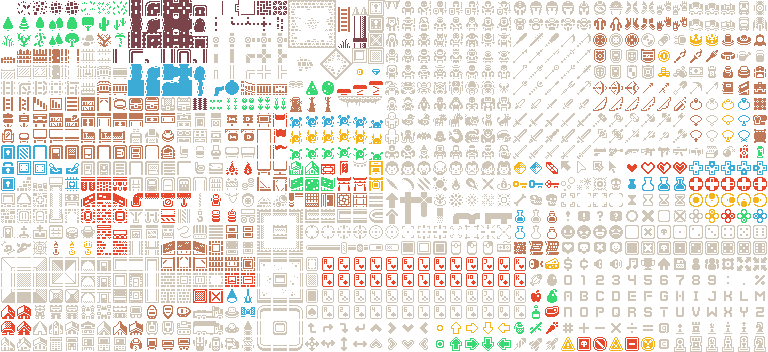
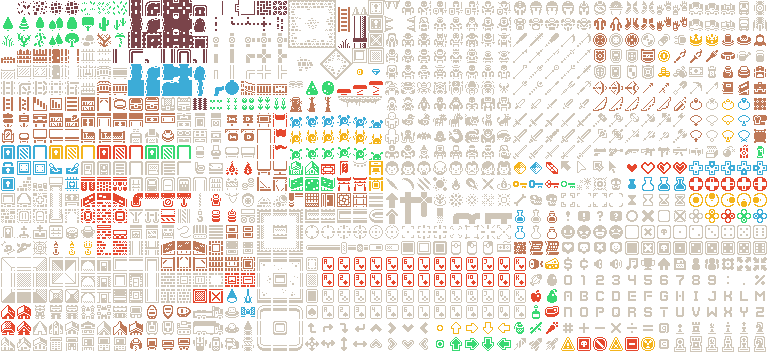
feat: add layers

Changed region(s): [[0.0625, 0.4062, 0.25, 0.4688], [0.5, 0.0312, 0.5625, 0.0938], [0.7188, 0.5, 0.75, 0.5312]]

diff --git a/src/scenes/game.ts b/src/scenes/game.ts
@@ -20,6 +20,8 @@ export class GameScene extends Phaser.Scene {
   rotating: boolean;
   direction: 0 | 1 | 2 | 3;
   isFlipped: boolean;
+  bgLayer: Phaser.Tilemaps.StaticTilemapLayer;
+  spikesLayer: Phaser.Tilemaps.StaticTilemapLayer;
   constructor() {
     super(sceneConfig);
   }
@@ -56,7 +58,10 @@ export class GameScene extends Phaser.Scene {
      */     
     this.map = this.make.tilemap({ key: 'map' });
     this.tiles = this.map.addTilesetImage('tiles');
+    this.bgLayer = this.map.createStaticLayer('Background', this.tiles)
     this.groundLayer = this.map.createStaticLayer('Ground', this.tiles)
+    this.spikesLayer = this.map.createStaticLayer('Spikes', this.tiles)
+    this.actionsLayer = this.map.createStaticLayer('Actions', this.tiles)
     
     /**    
      * Set the ground layer to be have any tiles with index 1 or 0 not be colidable.
@@ -89,10 +94,19 @@ export class GameScene extends Phaser.Scene {
     this.physics.add.collider(this.player, this.groundLayer, (player, layer) => {
       if (!this.rotating) {
         if (this.cursors.left.isDown && !this.cursors.right.isDown) {
-          this.moveCounterClockwise();
+          if (!this.isFlipped) {
+            this.moveCounterClockwise();
+          } else {
+            this.moveClockwise();
+          }
+          
         } else {
           if (this.cursors.right.isDown && !this.cursors.left.isDown) {
-            this.moveClockwise();
+            if (this.isFlipped) {
+              this.moveCounterClockwise();
+            } else {
+              this.moveClockwise();
+            }
           } else {
             this.stopMoving()
           }
@@ -120,6 +134,7 @@ export class GameScene extends Phaser.Scene {
      */     
     this.cameras.main.setBounds(0, 0, 1920, 1440);
     this.cameras.main.startFollow(this.player);
+    this.cameras.main.setZoom(2);
   }
   
   public update() {    
@@ -321,7 +336,7 @@ export class GameScene extends Phaser.Scene {
         this.player.body.gravity.x *= -1;
         this.player.body.gravity.y = 0
       }
-      this.player.flipY = this.isFlipped
+      this.player.flipY = !this.isFlipped
       const directions: Array<0 | 1 | 2 | 3> = [2, 3, 0, 1]
       this.direction = directions[this.direction]
       this.isFlipped = !this.isFlipped

diff --git a/src/index.ts b/src/index.ts
@@ -4,6 +4,7 @@ import Scenes from 'scenes';
 const config: Phaser.Types.Core.GameConfig = {
   title: 'Miz jam',
   type: Phaser.AUTO,
+  zoom: 2,
   scale: {
     parent: 'game',
     width: 800,
